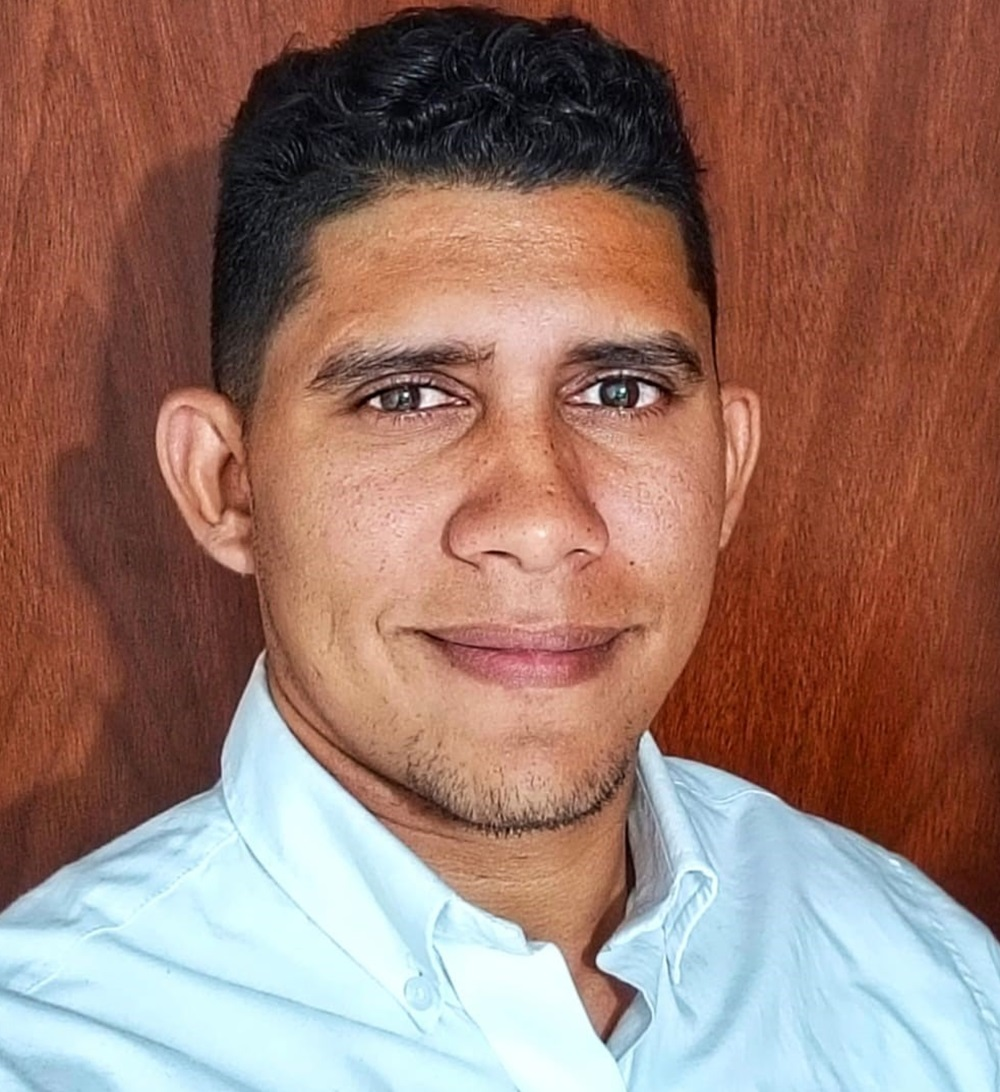
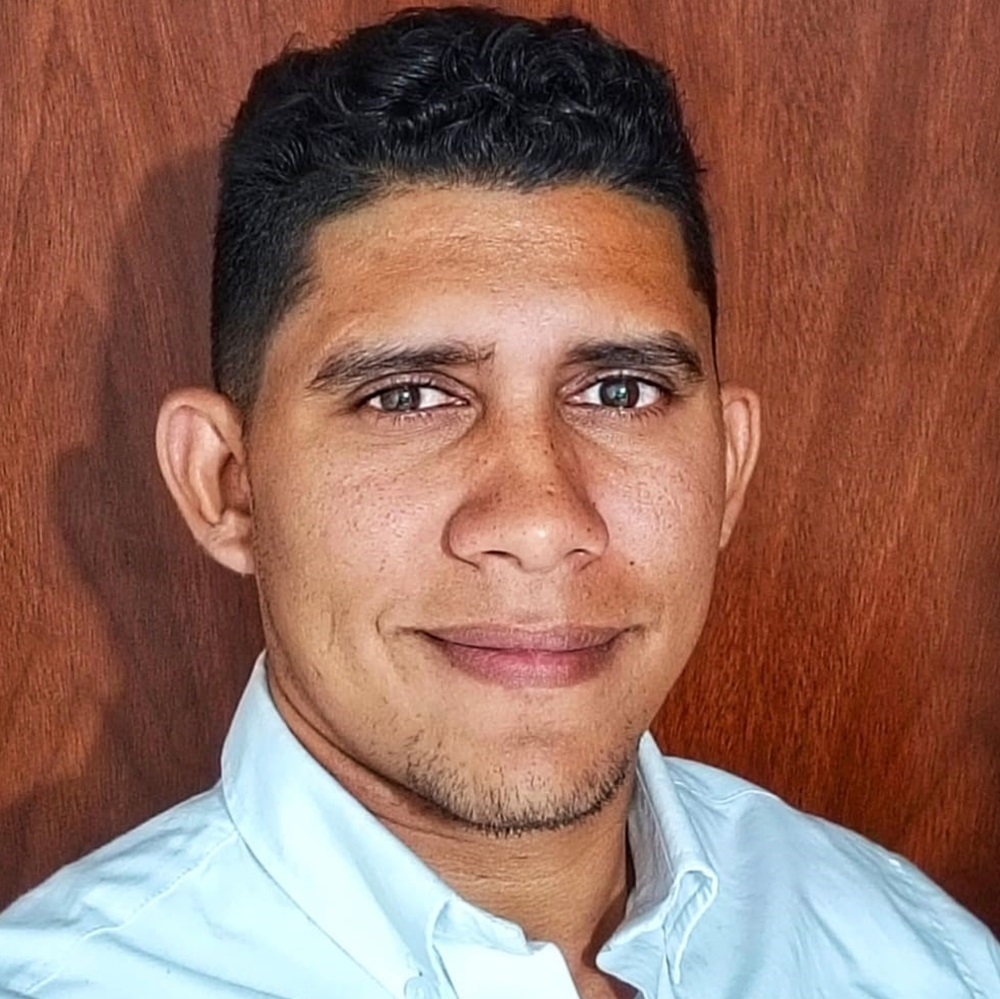
Corrección de desempeño de la pagina

diff --git a/src/components/Target.jsx b/src/components/Target.jsx
@@ -21,7 +21,11 @@ function Target() {
         <div className="t-main flex flex-col justify-start items-center bg-gray-950 rounded-2xl pt-12 w-80 h-auto sm:px-10 text-gray-100">
           <div className="h-52 flex flex-row justify-center items-center">
             <img
-              className="rounded-full w-52 h-52"
+              className="rounded-full w-auto h-auto"
+              rel="preload"
+              fetchpriority="high"
+              as="image"
+              type="image/webp"
               src={perfil}
               alt={`Photo de ${nombre} ${apellido}`}
             />

diff --git a/src/components/HistoryExp.jsx b/src/components/HistoryExp.jsx
@@ -11,10 +11,12 @@ function HistoryExp() {
 
   return (
     <div
+      rel="preload"
       id="experiencia-laboral"
-      className="flex flex-col justify-center items-start w-full lg:px-10 md:px-5 sm:px-2"
+      className="flex font-display:optional flex-col justify-center items-start w-full lg:px-10 md:px-5 sm:px-2"
     >
       <TituloDesplegable
+        
         nombre={"Experiencia Laboral"}
         onclick={onclick}
         desplegar={desplegar}
